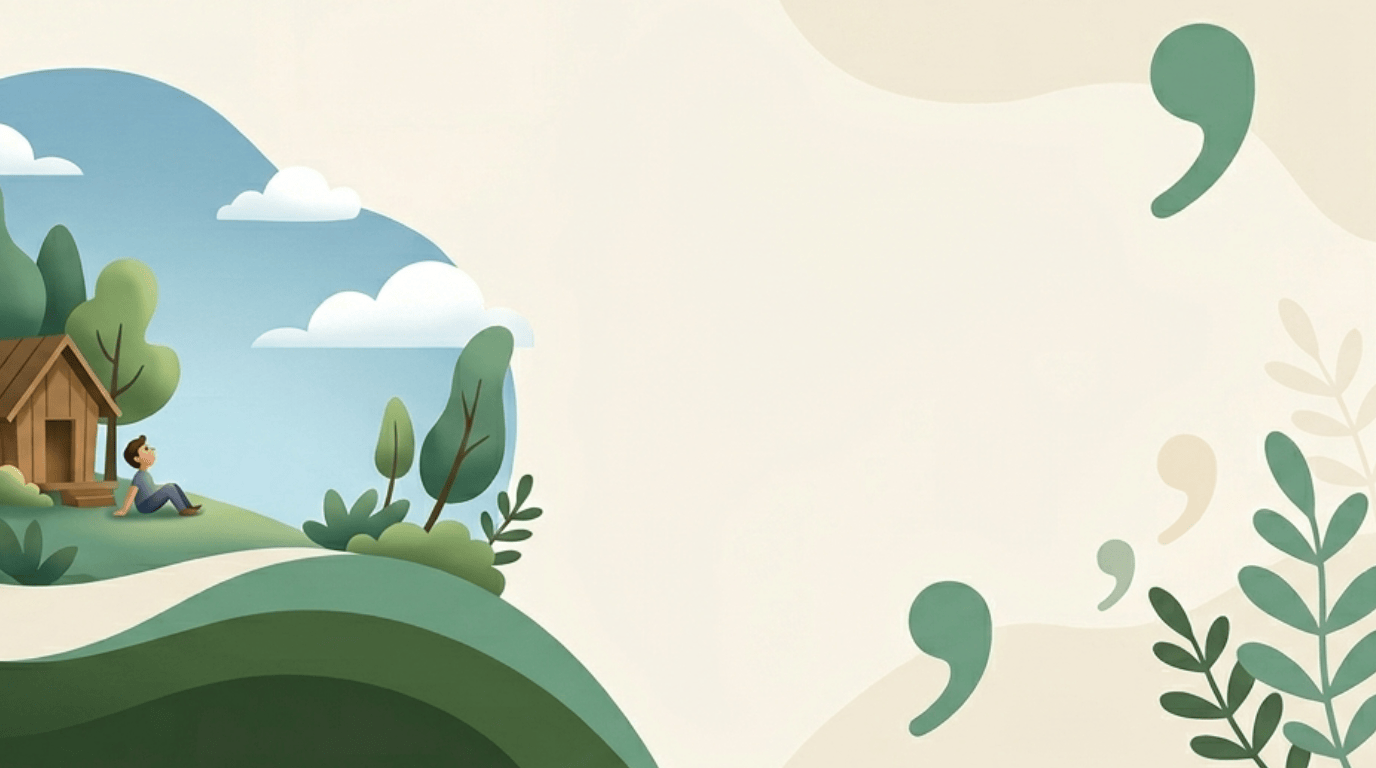
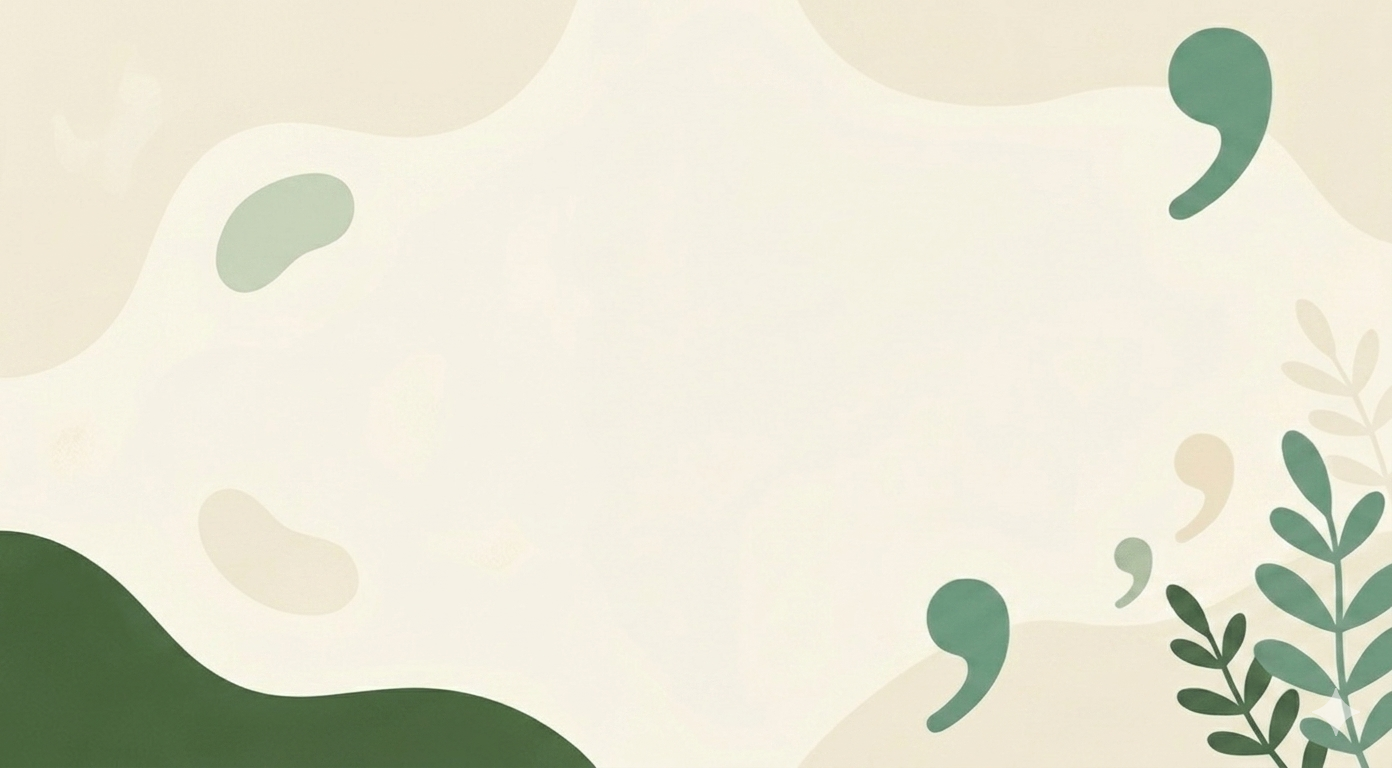
style - 배경 첨부 이미지 및 layout 보수작업

diff --git a/style.css b/style.css
@@ -252,7 +252,8 @@ transition: transform 0.3s ease, opacity 0.3s ease;
 /* ══════════════════════════════════════════
    SHARED UTILITIES
 ══════════════════════════════════════════ */
-.wrap { max-width: 1340px; margin: 4vw auto; padding: 0 6vw;  }
+.wrap { max-width: 1340px; margin: 30vw auto; padding: 0 6vw;  }
+.wrap.main-section{ max-width: 1340px; margin-top: 34vw; margin-bottom: 0; padding: 0 6vw;  }
 .sec-tag {
   display: inline-flex; align-items: center; gap: 10px;
   font-size: 11px; letter-spacing: 0.22em; text-transform: uppercase;
@@ -395,6 +396,10 @@ transition: transform 0.3s ease, opacity 0.3s ease;
 @media (max-width: 760px) {
     .program-track .field-card { flex: 0 0 240px; }
     .sr-card.s1 {margin-top: 100px;}
+    .wrap.main-section{ max-width: 1340px;
+    margin-top: 48vw;
+    margin-bottom: 0;
+    padding: 0 6vw;}
 }
 
 /* ══════════════════════════════════════════
@@ -645,7 +650,7 @@ body.edit-mode [contenteditable="true"] {
 /* ══════════════════════════════════════════
    PROCESS / FIELDS (상담분야)
 ══════════════════════════════════════════ */
-#fields { padding: 130px 0; background: var(--c-ivory); }
+#fields { padding-bottom: 130px; background: var(--c-ivory); }
 .fields-grid { display: grid; grid-template-columns: repeat(3, 1fr); gap: 24px; margin-top: 52px; }
 .field-card { background: var(--c-bg); padding: 32px 28px; border-left: 3px solid var(--c-sage); transition: transform var(--t); }
 .field-card:hover { transform: translateY(-5px); }
@@ -658,7 +663,7 @@ body.edit-mode [contenteditable="true"] {
    LOCATION & INFO (Updated Layout)
 ══════════════════════════════════════════ */
 #location {
-  padding: 130px 0;
+  padding-bottom: 8px;
   background: var(--c-cream); /* Maintained original section color */
 }
 .loc-grid {
@@ -726,7 +731,7 @@ body.edit-mode [contenteditable="true"] {
 footer {
   background:  rgba(247,243,236,0.94);
   color: var(--c-muted);
-  padding: 40px 0 24px;
+  padding: 0 0 24px;
   font-family: var(--f-body);
 }
 
@@ -1276,8 +1281,8 @@ body.edit-mode .edit-badge { display: block; }
 ══════════════════════════════════════════ */
 .hero {width: 100%; max-height: 1.75vw; background: var(--c-cream); display: flex; align-items: center; justify-content: center; margin-bottom: 1.5vw;}
 .hero-bg { width: 100%; height: auto; object-fit: cover; opacity: 0.4; z-index: -1;}
-
 #therapist { min-height: 100vh; display: grid; grid-template-columns: 1fr 1fr; }
+section#therapist{margin-top: 16vw;}
 .therapist-content { display: flex; flex-direction: column; justify-content: center; padding: 130px 4vw 54px 8vw; position: relative; z-index: 2; }
 .therapist-eyebrow { font-size: 11px; letter-spacing: 0.22em; text-transform: uppercase; color: var(--c-sage); font-weight: 500; margin-bottom: 24px; display: flex; align-items: center; gap: 10px; animation: fadeUp 0.9s ease 0.1s both; }
 .therapist-eyebrow::before { content:''; width:28px; height:1px; background:var(--c-sage); }
@@ -1294,6 +1299,7 @@ body.edit-mode .edit-badge { display: block; }
  
 
 @media (max-width: 860px) {
+  .hero-bg{height:64vw;}
   #therapist { grid-template-columns: 1fr; min-height: auto; }
   .therapist-content { padding: 120px 6vw 56px; }
   .therapist-photo { height: 60vw; }

diff --git a/index.html b/index.html
@@ -20,10 +20,11 @@
             color: var(--c-white);
         }
         
-        .hero-background{
+        .hero-main-bg{
             position: absolute;
-            top: 0; left: 0; width: 100%; height: 100%;
+            top: 0; left: 0; width: 100%; height: 32vw;
             object-fit: cover;
+            opacity: 0.52;
             z-index: -1;
         }
 
@@ -43,7 +44,7 @@
         /* Floating Quick Menu */
         .quick-menu {
             position: absolute;
-            bottom: -40px;
+            bottom: 300px;
             left: 50%;
             transform: translateX(-50%);
             display: grid;
@@ -90,8 +91,9 @@
         }
 
         @media (max-width: 760px) {
-            .quick-menu { grid-template-columns: repeat(2, 1fr); bottom: -80px; }
-            .main-section { padding-top: 160px; }
+            .hero-main-bg { height: 64vw; }
+            .quick-menu { grid-template-columns: repeat(2, 1fr); bottom: 524px; }
+            .main-section { padding-top: 160px;}
         }
     </style>
 
@@ -100,8 +102,8 @@
 </head>
 <body>
 
-    <div class="hero">
-        <img src="assets/background.png" alt="마음 인지행동심리상담센터 배경이미지" class="hero-background">
+    <div class="hero-main">
+        <img src="assets/background.png" alt="마음 인지행동심리상담센터 배경이미지" class="hero-main-bg">
         
         <div class="quick-menu">
             <a href="center_into.html" class="quick-item">

diff --git a/experts.html b/experts.html
@@ -9,9 +9,9 @@
   <img src="assets/experts_bg.png" alt="Hero Background" class="hero-bg">
 </div>
 <section id="experts-section" class="wrap" style="padding: 52px 0;">
-  <div class="sec-tag" style="padding: 0 20px;">Our Team</div>
-  <h2 class="sec-h" style="margin-bottom: 50px; padding: 0 20px;">함께하는 <em>전문가</em></h2>
-  
+    <p class="therapist-eyebrow">Our Team</p>
+    <h2 class="therapist-h1" id="e-hero-h">함께하는 <em>전문가</em></h2>
+
   <!-- <div id="expert-dynamic-grid" class="expert-grid"></div> -->
   
   <ul class = "exp_list">

diff --git a/specialties.html b/specialties.html
@@ -1,10 +1,15 @@
 <!DOCTYPE html>
 <html lang="ko">
 <head>
+  <link rel="stylesheet" href="style.css">
  <header basic-components="components/header.html">
 </header>
-
+</head>
 <body>
+  
+<div class="hero">
+  <img src="assets/specialties_bg.png" alt="Hero Background" class="hero-bg">
+</div>
 
 <section id="fields" style="flex:1;">
   <div class="wrap">

diff --git a/procedure.html b/procedure.html
@@ -18,7 +18,7 @@
 
 
         .procedure-hero {
-            padding: 120px 20px 60px;
+            padding: 20px 20px 60px;
             text-align: center;
             background-color: var(--c-bg);
         }

diff --git a/location.html b/location.html
@@ -5,6 +5,10 @@
 </header>
 
 <body>
+  
+<div class="hero">
+  <img src="assets/location_bg.png" alt="Hero Background" class="hero-bg">
+</div>
 
 <section id="location" style="flex:1;">
   <div class="wrap">
